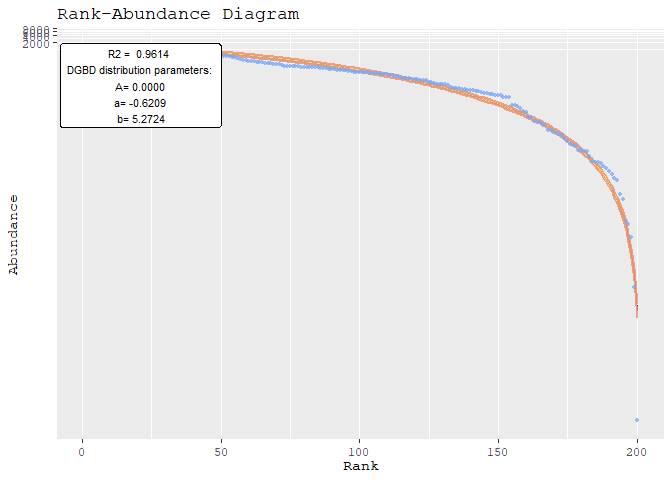
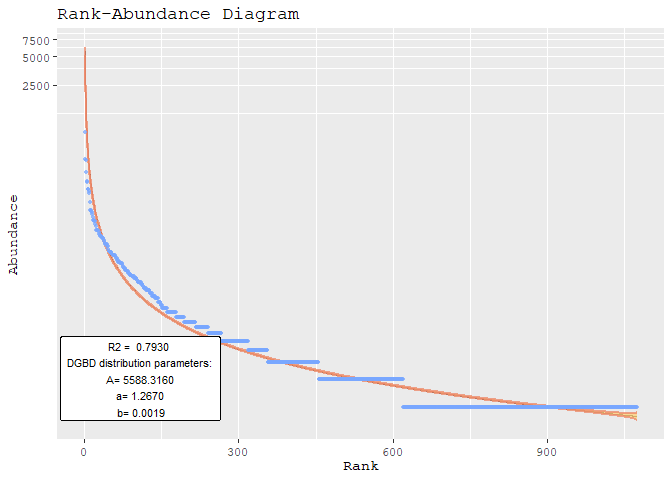
Fixed R2 values, added nls method

diff --git a/README.md b/README.md
@@ -42,38 +42,67 @@ Tara_Data
 #> otu_table()   OTU Table:         [ 1701 taxa and 3 samples ]
 #> sample_data() Sample Data:       [ 3 samples by 61 sample variables ]
 #> tax_table()   Taxonomy Table:    [ 1701 taxa by 7 taxonomic ranks ]
-Tara_DGBD <- BC_multiple(Tara_Data,is_phyloseq=TRUE,columns_select_multiple = c(1,3),plot_silent=T)
+Tara_DGBD <- BC_multiple(Tara_Data,is_phyloseq=TRUE,columns_select_multiple = c(1,2),plot_silent=T)
 #> [1] "The data fit the DGB distribution with parameters:"
 #>               A        a          b
 #> 2.5 %  497.6530 1.147561 -0.1920345
 #> 50 %   656.5237 1.114573 -0.1590458
 #> 97.5 % 866.1122 1.081584 -0.1260571
 #> [1] "And the fit has an R2 of:"
-#> [1] 0.9631398
+#> [1] 0.879234
 ```
 
 <img src="man/figures/README-example-1.png" width="100%" />
 
     #> [1] "The data fit the DGB distribution with parameters:"
     #>               A        a            b
-    #> 2.5 %  4555.386 1.285761 -0.016784526
-    #> 50 %   5588.316 1.267041  0.001935635
-    #> 97.5 % 6855.463 1.248321  0.020655796
+    #> 2.5 %  4327.562 1.288704 -0.024775637
+    #> 50 %   5419.046 1.267957 -0.004028272
+    #> 97.5 % 6785.821 1.247210  0.016719093
     #> [1] "And the fit has an R2 of:"
-    #> [1] 0.9666311
+    #> [1] 0.6286568
 
 <img src="man/figures/README-example-2.png" width="100%" />
 
 ``` r
+Tara_DGBD <- BC_multiple(Tara_Data,is_phyloseq=TRUE,columns_select_multiple = c(3),plot_silent=T)
+#> [1] "The data fit the DGB distribution with parameters:"
+#>               A        a            b
+#> 2.5 %  4555.386 1.285761 -0.016784526
+#> 50 %   5588.316 1.267041  0.001935635
+#> 97.5 % 6855.463 1.248321  0.020655796
+#> [1] "And the fit has an R2 of:"
+#> [1] 0.7930081
+```
 
-BC_report(hmp_wgs,2)
+<img src="man/figures/README-example-3.png" width="100%" />
+
+Generally the nls method is better at fitting the values on the left of
+the graph, while performing worse on the right side of the graph. Yet,
+the R2 tends to stay the same or increase when using the nls method.
+
+``` r
+Tara_DGBD <- BC_multiple(Tara_Data,is_phyloseq=TRUE,columns_select_multiple = c(3),plot_silent=T,nls=TRUE)
+#> [1] "The data fit the DGB distribution with parameters:"
+#>               A         a         b
+#> 2.5 %  10.97475 0.7556983 0.3038271
+#> 50 %   45.39142 0.7620199 0.4121401
+#> 97.5 % 79.80809 0.7683415 0.5204532
+#> [1] "And the fit has an R2 of:"
+#> [1] 0.9867148
+```
+
+<img src="man/figures/README-example2-1.png" width="100%" />
+
+``` r
+BC_report(hmp_wgs,2) 
 #> [1] "The data fit the DGB distribution with parameters:"
 #>                   A          a        b
 #> 2.5 %  4.591541e-11 -0.4345076 5.086016
 #> 50 %   2.018236e-10 -0.6208510 5.272359
 #> 97.5 % 8.871265e-10 -0.8071944 5.458703
 #> [1] "And the fit has an R2 of:"
-#> [1] 0.9614078
+#> [1] 0.8341139
 ```
 
-<img src="man/figures/README-example-3.png" width="100%" />
+<img src="man/figures/README-example2-2.png" width="100%" />
